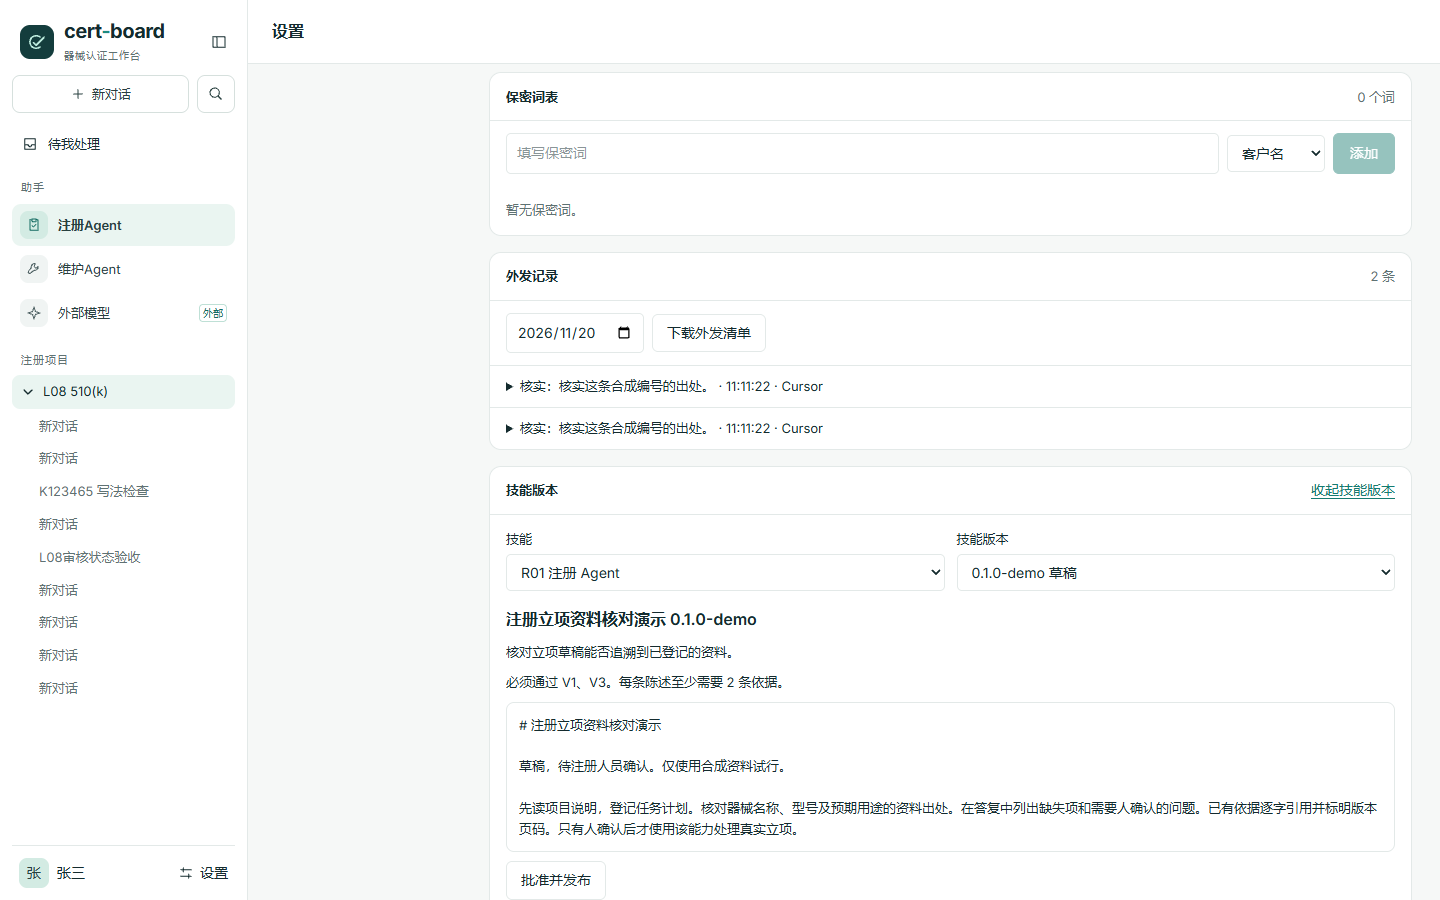
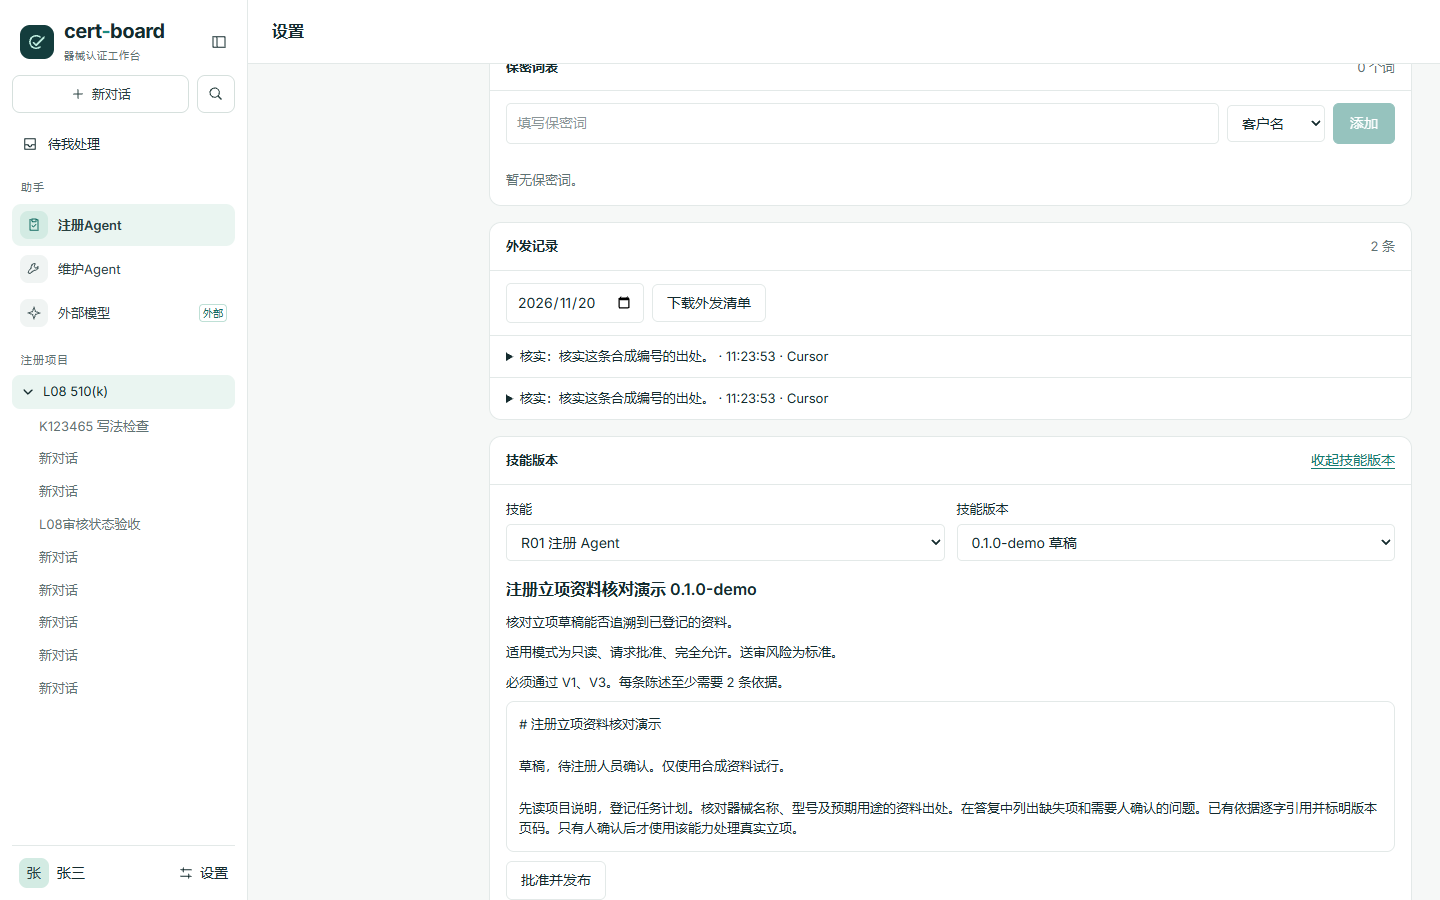
PR-24 修复复审：激活前校验并展示审核边界

diff --git a/apps/backend/src/skills/service.ts b/apps/backend/src/skills/service.ts
@@ -60,6 +60,39 @@ const versionColumns = `v.id,v.metadata,v.body,v.content_sha256 AS "contentSha25
 ) AS published`;
 const releaseColumns = `skill_id AS "skillId",revision,target_version_id AS "targetVersionId",
 active_version_id AS "activeVersionId",fingerprint`;
+const catalogLimit = 60;
+
+function readableSkill({ metadata, body }: ReturnType<typeof skillVersionDraftSchema.parse>) {
+  const { id, version, name, summary } = agentSkillIndexSchema.parse({
+    id: metadata.id,
+    version: metadata.version,
+    name: metadata.name,
+    summary: metadata.summary,
+  });
+  const loaded = skillLoadResultSchema.safeParse({
+    skill: { id, version, name, summary, agentCode: metadata.agentCode },
+    body,
+    attachments: [],
+    publication: 'published',
+    developmentOnly: false,
+    reviewPolicy: {
+      skill: { id, version },
+      publication: 'published',
+      developmentOnly: false,
+      requiredChecks: metadata.requiredChecks,
+      minimumEvidence: metadata.minimumEvidence,
+      risk: metadata.risk,
+      cardType: 'finalize',
+    },
+  });
+  if (!loaded.success)
+    throw new AppError(
+      422,
+      'SKILL_LOAD_LIMIT',
+      '此版本完整加载后的技能回执超出上限，请缩短正文或示例后登记新版本。',
+    );
+  return loaded.data;
+}
 
 async function revision(db: Db, id: string, lock: 'read' | 'write' | 'none' = 'none') {
   const locking = { read: ' FOR SHARE', write: ' FOR UPDATE', none: '' }[lock];
@@ -104,8 +137,22 @@ export async function stageSkillVersion(pool: Pool, input: unknown) {
       '技能内容或元数据不符合 SKILL.md 约定，请补齐必填字段和检查项。',
     );
   const { metadata, body } = parsed.data;
+  readableSkill(parsed.data);
   const fingerprint = sha(parsed.data);
   return transaction(pool, async (db) => {
+    await db.query('SELECT pg_advisory_xact_lock(hashtextextended($1,0))', ['skill-catalog']);
+    const state = (
+      await db.query<{ count: number; existing: boolean }>(
+        'SELECT count(*)::int AS count,COALESCE(bool_or(id=$1),false) AS existing FROM skill',
+        [metadata.id],
+      )
+    ).rows[0]!;
+    if (!state.existing && state.count >= catalogLimit)
+      throw new AppError(
+        413,
+        'SKILL_CATALOG_LIMIT',
+        `技能目录已达 ${catalogLimit} 项，请联系维护人员增加分页。`,
+      );
     await db.query('INSERT INTO skill(id,agent_code) VALUES($1,$2) ON CONFLICT DO NOTHING', [
       metadata.id,
       metadata.agentCode,
@@ -235,6 +282,7 @@ export async function decideSkillVersion(
     if ((active?.revision ?? 0) !== base.revision) throw stale();
     const target = await readSkillVersion(db, id, command.versionId);
     if (target.contentSha256 !== command.contentSha256) throw stale();
+    if (command.action !== 'disable') readableSkill(target);
     if (command.action === 'disable' && active?.activeVersionId !== target.id) throw stale();
     if (
       command.action === 'rollback' &&
@@ -303,29 +351,7 @@ export async function readActiveSkill(
     (mode && !current.metadata.modes.includes(mode))
   )
     return null;
-  const metadata = current.metadata;
-  const { id, version, name, summary } = agentSkillIndexSchema.parse({
-    id: metadata.id,
-    version: metadata.version,
-    name: metadata.name,
-    summary: metadata.summary,
-  });
-  return skillLoadResultSchema.parse({
-    skill: { id, version, name, summary, agentCode: code },
-    body: current.body,
-    attachments: [],
-    publication: 'published',
-    developmentOnly: false,
-    reviewPolicy: {
-      skill: { id, version },
-      publication: 'published',
-      developmentOnly: false,
-      requiredChecks: metadata.requiredChecks,
-      minimumEvidence: metadata.minimumEvidence,
-      risk: metadata.risk,
-      cardType: 'finalize',
-    },
-  });
+  return readableSkill(current);
 }
 
 export async function registeredSkillIds(db: Db, code: AgentCode) {

diff --git a/docs/决定记录.html b/docs/决定记录.html
@@ -224,4 +224,5 @@ img{max-width:100%;height:auto}.blocked,.footer{color:var(--muted);font-size:13p
 <p>复审后要求版本重查继续验证原有分歧的字段。原字段涉及版本冲突时，相关子任务须用该资料的最新可读版重新核对。省略字段或把新版用于另一字段时继续暂停写入。提问显示每个值及单位，比较同单位十进制时保留精度，器械编号按文本比较。压缩对单条长消息有序分段，保留原文末尾。压缩窗口不足或回执无效时，只有原上下文符合硬上限且运行仍有效才沿用原历史。</p>
 <h2 id="d-052-技能审核与版本切换">D-052 技能审核与版本切换</h2>
 <p>技能正文与元数据组成不可变版本。命令行只登记草稿。按 D-050 在注册人员都能打开的「设置」增加技能审核卡，使用既有设置样式。只有浏览器会话与 CSRF 校验通过才可批准发布、停用或回退。操作绑定浏览器实际查看的版本内容哈希和状态版本号，写入操作者及原版本和新版本的审计。同一操作编号重放只生效一次。</p>
-<p>上一版按首次人工发布的顺序确定。停用后仍可从刚停用版本退回上一版。生效版本替换后，Agent 的加载和送审按当前所属 Agent、许可模式和版本重新检查。未纳入管理的内置开发草稿继续只在开发和测试环境使用。登记过的同名技能停用后，运行不会改用旧的内置草稿。演示技能只准备草稿，留给注册人员手动审阅。详见 <a href="pr/PR-24.html">PR-24</a>。</p><div class="footer">由 Markdown 源文件生成，修改请编辑同名 .md 文件后重新生成。</div></main></div></body></html>
+<p>上一版按首次人工发布的顺序确定。停用后仍可从刚停用版本退回上一版。生效版本替换后，Agent 的加载和送审按当前所属 Agent、许可模式和版本重新检查。未纳入管理的内置开发草稿继续只在开发和测试环境使用。登记过的同名技能停用后，运行不会改用旧的内置草稿。演示技能只准备草稿，留给注册人员手动审阅。详见 <a href="pr/PR-24.html">PR-24</a>。</p>
+<p>复审后，草稿登记和版本激活均使用与工具加载一致的完整回执校验。登记时核对能力归属，同一目录暂收 60 个技能，每项 60 版。审核卡展示生效模式和送审风险。汇总依据已达标但单条陈述依据不足时，送审仍会拒绝。</p><div class="footer">由 Markdown 源文件生成，修改请编辑同名 .md 文件后重新生成。</div></main></div></body></html>

diff --git a/apps/web/src/live/SkillVersions.tsx b/apps/web/src/live/SkillVersions.tsx
@@ -3,6 +3,8 @@ import { useMutation, useQuery, useQueryClient } from '@tanstack/react-query';
 import type { SkillActionInput } from '@cert-board/shared';
 import { api, createRequestKey, errorMessage } from './api.js';
 
+const permissionLabels = { read_only: '只读', ask: '请求批准', full: '完全允许' };
+
 export function SkillVersions({ userId }: { userId: string }) {
   const [open, setOpen] = useState(false);
   const [skillId, setSkillId] = useState('');
@@ -118,6 +120,10 @@ export function SkillVersions({ userId }: { userId: string }) {
                 {selected.metadata.name} {selected.metadata.version}
               </h3>
               <p>{selected.metadata.summary}</p>
+              <p>
+                适用模式为{selected.metadata.modes.map((mode) => permissionLabels[mode]).join('、')}
+                。送审风险为{selected.metadata.risk === 'high' ? '高风险' : '标准'}。
+              </p>
               <p>
                 必须通过 {selected.metadata.requiredChecks.join('、')}。每条陈述至少需要{' '}
                 {selected.metadata.minimumEvidence} 条依据。

diff --git a/packages/shared/src/skill-versions.ts b/packages/shared/src/skill-versions.ts
@@ -30,6 +30,17 @@ export const skillVersionMetadataSchema = agentSkillIndexSchema
   })
   .strict()
   .superRefine((value, ctx) => {
+    const owner = value.id.startsWith('R')
+      ? 'registration'
+      : /^(?:M\d{2}|S0[124])$/.test(value.id)
+        ? 'maintenance'
+        : null;
+    if ((owner && value.agentCode !== owner) || value.id === 'S05')
+      ctx.addIssue({
+        code: 'custom',
+        path: ['agentCode'],
+        message: '技能编号与规定的 Agent 归属不一致。',
+      });
     if (new Set(value.modes).size !== value.modes.length)
       ctx.addIssue({ code: 'custom', path: ['modes'], message: '权限模式不能重复。' });
     if (

diff --git a/apps/backend/src/e2e/browser.e2e.ts b/apps/backend/src/e2e/browser.e2e.ts
@@ -636,6 +636,9 @@ async function main() {
     await card
       .getByRole('heading', { name: '注册立项资料核对演示 0.1.0-demo', exact: true })
       .waitFor();
+    await card
+      .getByText('适用模式为只读、请求批准、完全允许。送审风险为标准。', { exact: true })
+      .waitFor();
     await card.scrollIntoViewIfNeeded();
     await captureWorkbench(page, output, 'pr24-skill-review.png');
     await card.getByRole('button', { name: '批准并发布', exact: true }).click();
